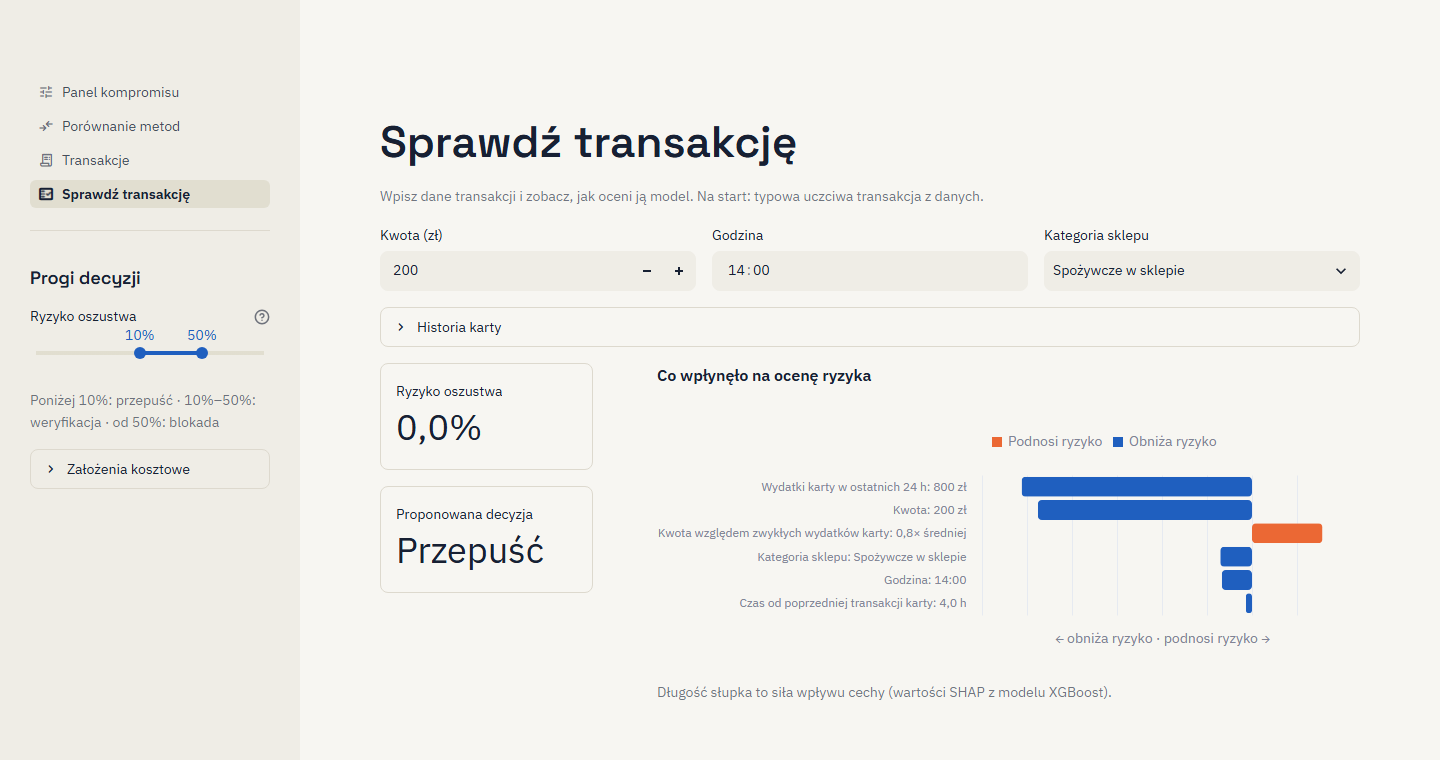
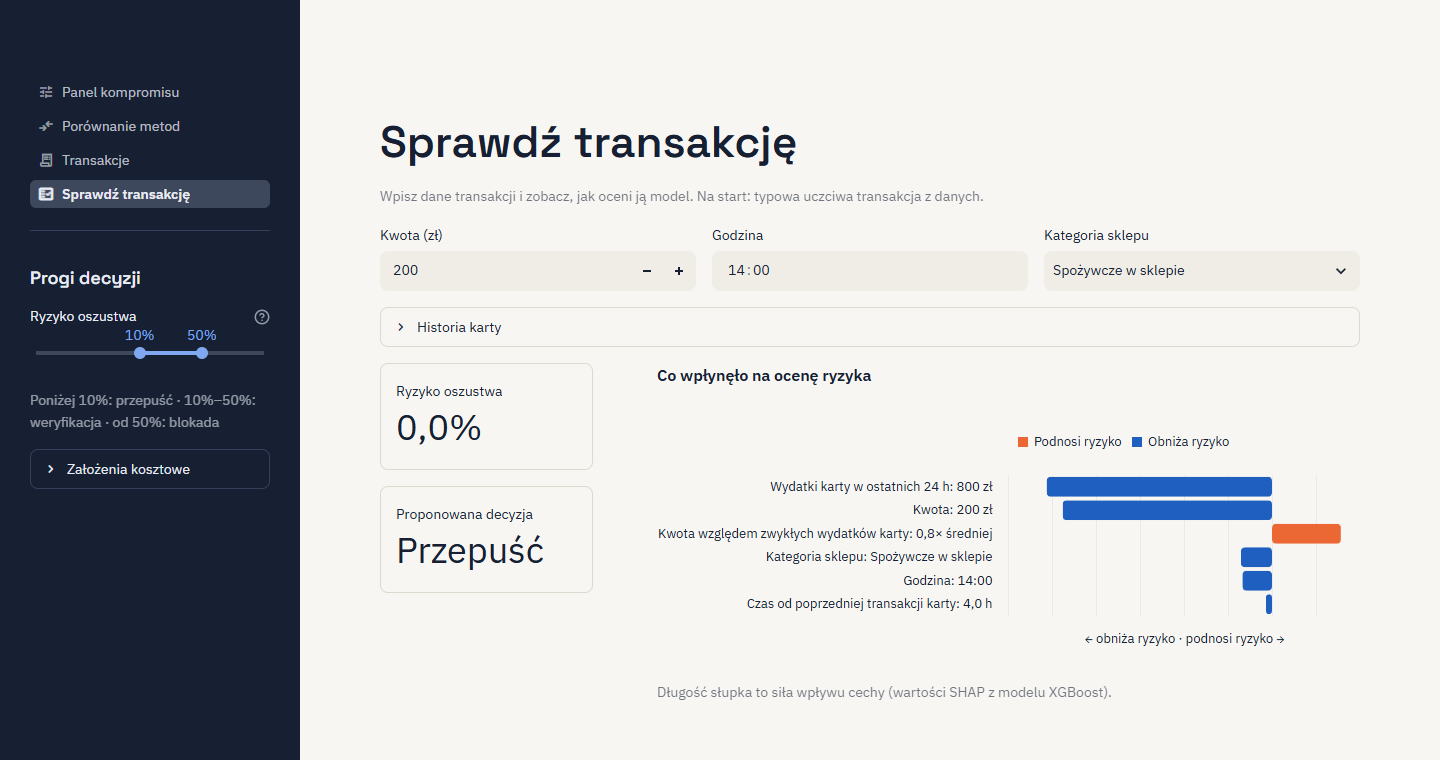
Navy sidebar, readable charts, equal tiles, cost chart, tutorial screenshots

diff --git a/report.py b/report.py
@@ -1,4 +1,4 @@
-"""Writes a summary of the results to results/: Markdown tables and two charts.
+"""Writes a summary of the results to results/: Markdown tables and three charts.
 
 Run after train.py: uv run python report.py (it also reads data/fraudTrain.csv for the largest training fraud).
 """
@@ -20,7 +20,7 @@ from src.evaluation import (
     sensitive_variants_table,
 )
 from src.features import BASE_FEATURES, FEATURE_LABELS, add_model_inputs
-from src.formatting import BLUE, INK, ORANGE, fmt_date, fmt_int, fmt_pct, fmt_pln, fmt_step
+from src.formatting import BLUE, GRAY, INK, ORANGE, fmt_date, fmt_int, fmt_pct, fmt_pln, fmt_step
 from src.rules import RULE_LABELS
 
 MODELS = {"XGBoost": "score_xgb", "Regresja logistyczna": "score_lr"}
@@ -80,6 +80,22 @@ def importance_chart(df: pd.DataFrame, booster: xgb.Booster) -> pd.Series:
     return importance.sort_values(ascending=False)
 
 
+def cost_chart(costs_per_1000: dict[str, float]) -> None:
+    """Cost per 1000 transactions of each variant: the baselines in gray, XGBoost in blue."""
+    labels, values = list(costs_per_1000)[::-1], list(costs_per_1000.values())[::-1]
+    fig, ax = plt.subplots(figsize=(9, 4), dpi=150)
+    bars = ax.barh(labels, values, height=0.55, color=[BLUE if l.startswith("XGBoost") else GRAY for l in labels])
+    ax.bar_label(bars, labels=[fmt_pln(v) for v in values], padding=4, color=INK)
+    ax.set_xlim(right=max(values) * 1.12)  # room for the label of the longest bar
+    ax.set_xlabel("Koszt na 1000 transakcji (zł)", color=INK)
+    ax.xaxis.set_major_formatter(lambda v, _: fmt_int(v))
+    style(ax)
+    ax.grid(axis="y", visible=False)
+    fig.tight_layout()
+    fig.savefig(RESULTS_DIR / "cost_comparison.png")
+    plt.close(fig)
+
+
 def cheapest_thresholds(y: np.ndarray, amount: np.ndarray, scores: np.ndarray, costs: Costs) -> tuple[float, float, float]:
     """The cheapest pair of slider thresholds (in percent) under the given cost assumptions."""
     pairs = [(verify, block) for verify in RISK_STEPS for block in RISK_STEPS if verify <= block]
@@ -134,6 +150,12 @@ def main() -> None:
     no_system = evaluate(y, amount, np.full(len(df), PASS), costs)
     rules = evaluate(y, amount, np.where(df["rules_any"], BLOCK, PASS), costs)
     best_verify, best_block, best_cost = cheapest_thresholds(y, amount, scores, costs)
+    cost_chart({
+        "Bez systemu": no_system.cost_per_1000,
+        "Proste reguły (blokada)": rules.cost_per_1000,
+        f"XGBoost\nweryfikacja od {fmt_step(verify_from)}, blokada od {fmt_step(block_from)}": panel.cost_per_1000,
+        f"XGBoost, najtańsze progi\nweryfikacja od {fmt_step(best_verify)}, blokada od {fmt_step(best_block)}": best_cost,
+    })
     train, test = meta["train"], meta["test"]
     ap = {k: f"{v:.3f}".replace(".", ",") for k, v in meta["average_precision"].items()}
 
@@ -196,7 +218,7 @@ bo decyzja o zablokowaniu karty nie powinna zależeć od płci ani wieku klienta
 
 ## Panel kompromisu przy domyślnych założeniach
 
-Założenia (nasze, nie dane rynkowe): blokada uczciwej transakcji {fmt_pln(DEFAULT_BLOCK_COST)},
+Wykres: `cost_comparison.png`. Założenia (nasze, nie dane rynkowe): blokada uczciwej transakcji {fmt_pln(DEFAULT_BLOCK_COST)},
 jedna weryfikacja {fmt_pln(DEFAULT_VERIFY_COST)}, weryfikacja zatrzymuje {fmt_pct(DEFAULT_VERIFY_EFFICACY)} oszustw,
 przepuszczone oszustwo kosztuje tyle, ile jego kwota.
 

diff --git a/views/panel.py b/views/panel.py
@@ -5,7 +5,7 @@ import numpy as np
 import pandas as pd
 import streamlit as st
 
-from src.app_data import load_meta, load_scored
+from src.app_data import load_meta, load_scored, readable
 from src.config import USD_PLN_SOURCE
 from src.evaluation import BLOCK, DECISION_LABELS, PASS, VERIFY, decide, evaluate
 from src.formatting import BLUE, GRAY, INK, fmt_date, fmt_int, fmt_pct, fmt_pln
@@ -27,17 +27,18 @@ st.caption(f"{fmt_int(test['rows'])} transakcji testowych ({period}), w tym {fmt
            "Przesuwaj progi w panelu bocznym.")
 
 c1, c2, c3, c4 = st.columns(4)
+# height="stretch": all tiles as tall as the cost tile, which has an extra line
 c1.metric(
-    "Wykryte oszustwa", fmt_pct(current.detected_share), border=True,
+    "Wykryte oszustwa", fmt_pct(current.detected_share), border=True, height="stretch",
     help=f"{fmt_int(current.detected)} z {fmt_int(sum(current.fraud.values()))} oszustw trafiło do weryfikacji "
          "lub zostało zablokowanych.",
 )
-c2.metric("Fałszywe blokady", fmt_int(current.honest[BLOCK]), border=True,
+c2.metric("Fałszywe blokady", fmt_int(current.honest[BLOCK]), border=True, height="stretch",
           help="Uczciwe transakcje zablokowane przez system.")
-c3.metric("Zbędne weryfikacje", fmt_int(current.honest[VERIFY]), border=True,
+c3.metric("Zbędne weryfikacje", fmt_int(current.honest[VERIFY]), border=True, height="stretch",
           help="Uczciwe transakcje, które klient musiał dodatkowo potwierdzić (SMS, 3D Secure).")
 c4.metric(
-    "Koszt na 1000 transakcji", fmt_pln(current.cost_per_1000), border=True,
+    "Koszt na 1000 transakcji", fmt_pln(current.cost_per_1000), border=True, height="stretch",
     delta=f"{fmt_pct(current.cost_per_1000 / no_system.cost_per_1000 - 1)} vs bez systemu", delta_color="inverse",
     help=f"Przepuszczone oszustwa, fałszywe blokady i weryfikacje. Kwoty w zł: {USD_PLN_SOURCE}.",
 )
@@ -48,15 +49,16 @@ variants = pd.DataFrame({
     "Koszt": [no_system.cost_per_1000, rules.cost_per_1000, current.cost_per_1000],
 })
 variants["Etykieta"] = variants["Koszt"].map(fmt_pln)
-bars = alt.Chart(variants).mark_bar(size=24, cornerRadiusEnd=4).encode(
+bars = alt.Chart(variants).mark_bar(size=30, cornerRadiusEnd=4).encode(
     x=alt.X("Koszt:Q", axis=None),  # every bar carries its value label
     y=alt.Y("Wariant:N", sort=None, title=None, axis=alt.Axis(labelLimit=260)),
     color=alt.Color("Wariant:N", scale=alt.Scale(domain=variants["Wariant"].tolist(), range=[GRAY, GRAY, BLUE]),
                     legend=None),
     tooltip=[alt.Tooltip("Wariant:N"), alt.Tooltip("Etykieta:N", title="Koszt")],
 )
-labels = bars.mark_text(align="left", dx=6).encode(text="Etykieta:N", color=alt.value(INK))
-st.altair_chart((bars + labels).properties(height=130), width="stretch")
+labels = bars.mark_text(align="left", dx=6, fontSize=14, fontWeight=500).encode(
+    text="Etykieta:N", color=alt.value(INK))
+st.altair_chart(readable((bars + labels).properties(height=160)), width="stretch")
 
 st.subheader("Co dzieje się z transakcjami")
 order = [PASS, VERIFY, BLOCK]

diff --git a/src/app_data.py b/src/app_data.py
@@ -12,7 +12,7 @@ import xgboost as xgb
 from src.config import META_PATH, MODEL_PATH, SCORED_PATH
 from src.evaluation import Costs
 from src.features import BASE_FEATURES, CATEGORY_LABELS, FEATURE_LABELS
-from src.formatting import BLUE, ORANGE, fmt_hours, fmt_pln
+from src.formatting import BLUE, INK, ORANGE, fmt_hours, fmt_pln
 
 
 @dataclass(frozen=True)
@@ -71,6 +71,12 @@ def explain(row: pd.Series) -> pd.DataFrame:
     return result.sort_values("Wpływ", key=abs, ascending=False, ignore_index=True)
 
 
+def readable(chart: alt.TopLevelMixin) -> alt.TopLevelMixin:
+    """Larger, darker chart text than the default, so it reads well on a projector."""
+    return (chart.configure_axis(labelFontSize=13, titleFontSize=13, labelColor=INK, titleColor=INK)
+            .configure_legend(labelFontSize=13, labelColor=INK))
+
+
 def show_explanation(row: pd.Series) -> None:
     """Chart of what raised and lowered the risk of one transaction."""
     st.markdown("**Co wpłynęło na ocenę ryzyka**")
@@ -84,5 +90,5 @@ def show_explanation(row: pd.Series) -> None:
                         scale=alt.Scale(domain=["Podnosi ryzyko", "Obniża ryzyko"], range=[ORANGE, BLUE])),
         tooltip=["Cecha:N", "Wartość:N", "Kierunek:N"],
     )
-    st.altair_chart(chart.properties(height=260), width="stretch")
+    st.altair_chart(readable(chart.properties(height=260)), width="stretch")
     st.caption("Długość słupka to siła wpływu cechy (wartości SHAP z modelu XGBoost).")

diff --git a/views/comparison.py b/views/comparison.py
@@ -4,7 +4,7 @@ import altair as alt
 import pandas as pd
 import streamlit as st
 
-from src.app_data import load_scored
+from src.app_data import load_scored, readable
 from src.evaluation import (
     alarm_curve, compare_at_rules_false_alarms, comparison_table, sensitive_variants_table,
 )
@@ -62,8 +62,8 @@ lines = alt.Chart(curves).mark_line(strokeWidth=2).encode(x=x, y=y_axis, color=c
 hover_points = alt.Chart(curves).mark_point(size=80, opacity=0).encode(x=x, y=y_axis, tooltip=tooltip)
 point = alt.Chart(rules_point).mark_point(filled=True, size=120, opacity=1).encode(
     x=x, y=y_axis, color=color, tooltip=tooltip)
-point_label = point.mark_text(align="left", dx=10, dy=16, color=INK).encode(text="Metoda:N")
-st.altair_chart((lines + hover_points + point + point_label).properties(height=360), width="stretch")
+point_label = point.mark_text(align="left", dx=10, dy=16, color=INK, fontSize=13).encode(text="Metoda:N")
+st.altair_chart(readable((lines + hover_points + point + point_label).properties(height=360)), width="stretch")
 st.caption("Każdy punkt linii to inny próg modelu. Im wyżej i bardziej w lewo, tym lepiej.")
 
 st.subheader("Czy model potrzebuje płci i wieku klienta?")

diff --git a/results/summary.md b/results/summary.md
@@ -73,7 +73,7 @@ bo decyzja o zablokowaniu karty nie powinna zależeć od płci ani wieku klienta
 
 ## Panel kompromisu przy domyślnych założeniach
 
-Założenia (nasze, nie dane rynkowe): blokada uczciwej transakcji 100 zł,
+Wykres: `cost_comparison.png`. Założenia (nasze, nie dane rynkowe): blokada uczciwej transakcji 100 zł,
 jedna weryfikacja 5 zł, weryfikacja zatrzymuje 90% oszustw,
 przepuszczone oszustwo kosztuje tyle, ile jego kwota.
 
